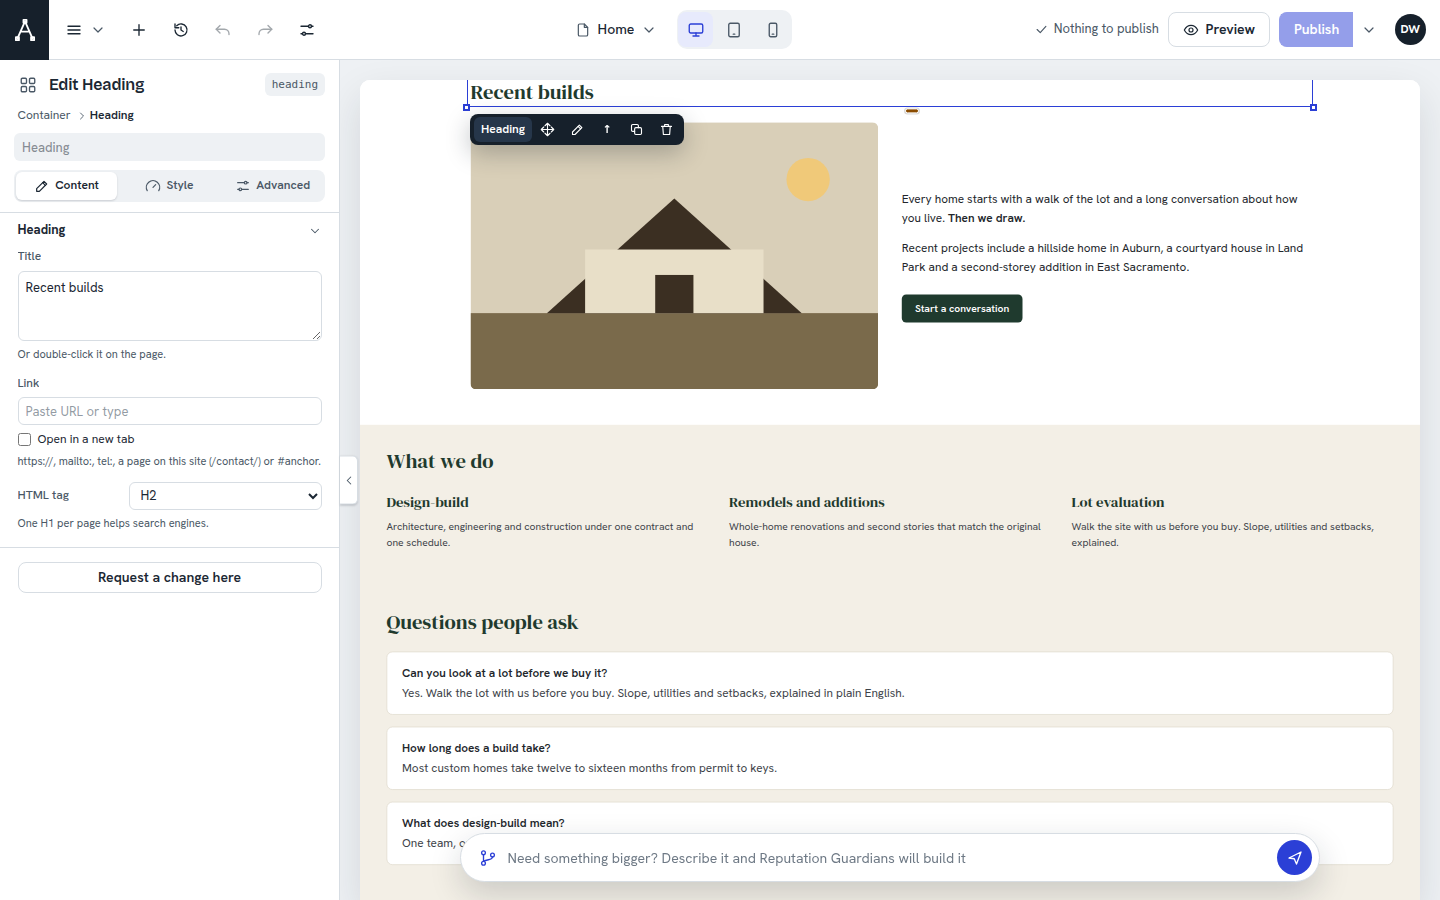
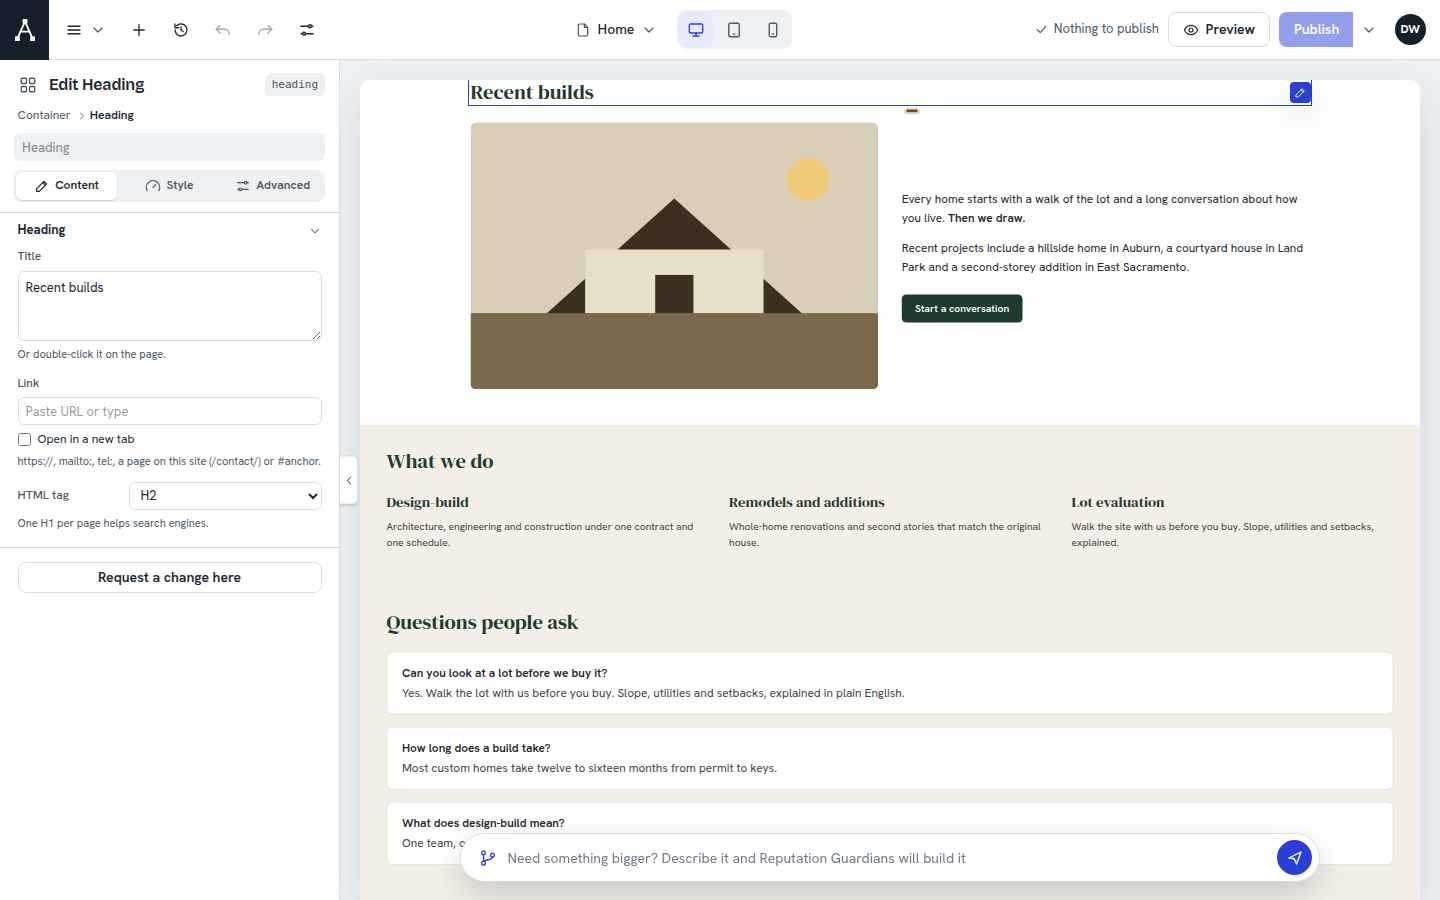
Canvas handles in Elementor's style: hover outlines and handle tabs
Hovering draws a thin outline (solid on a widget, dashed on a container) with
the type label. The selected element gets a solid accent outline and a handle
tab in place of the floating toolbar: a widget's is a square pencil outside its
top-right corner (click to edit, drag to move; hovering it reveals parent,
duplicate and delete); a container's straddles its top edge, centred, with
add / grip / delete, and a nested container's shifts right so tabs never stack.
Inline text editing, the resize handles and the spacing handles are unchanged.

Playwright: a test for the outlines, both tabs, the nested offset and selecting
at any depth; the icon picker and template tests select their element on a
settled scroll first.

Claude-Session: https://claude.ai/code/session_01HfmyeMNVbvPNK2bFV6a621

Changed region(s): [[0.3125, 0.0933, 0.5, 0.1867], [0.875, 0.0933, 0.9375, 0.1244]]

diff --git a/src/builder/ElementOverlays.tsx b/src/builder/ElementOverlays.tsx
@@ -1,14 +1,16 @@
 /**
  * Everything drawn above the iframe for builder elements, from the rect map the kit
- * reports, at 60fps from the geometry store: the dashed hover outline with its type
- * label, the "armature wire" selection with joint handles and a floating toolbar (or
- * an Elementor-style handle tab for containers), the empty-container hint, the hover
- * "+" between sections, the drag indicator, and the hidden/locked badges. Later
- * milestones add the resize and spacing handles here.
+ * reports, at 60fps from the geometry store, in Elementor's language: a thin hover
+ * outline (solid on a widget, dashed on a container) with the type label, a solid accent
+ * outline on the selected element with its handle tab — a square pencil at the top-right
+ * of a widget (drag it to move; hover it for the parent, duplicate and delete), or a tab
+ * centred on a container's top edge with add / grip / delete (offset when nested) — the
+ * empty-container hint, the hover "+" between sections, the drag indicator, the resize and
+ * spacing handles, and the hidden/locked badges.
  */
 import { clsx } from "clsx";
 import { useEffect, useState, type ReactNode } from "react";
-import { IconCopy, IconEyeOff, IconLock, IconMove, IconPencil, IconPlus, IconTrash } from "@/components/icons.tsx";
+import { IconCopy, IconEyeOff, IconGrip, IconLock, IconPencil, IconPlus, IconTrash } from "@/components/icons.tsx";
 import type { Device, Element, SiteKit } from "@shared/builder/index.ts";
 import type { ElementRect, Rect, RichTextCommand, RichTextState } from "@shared/visualProtocol.ts";
 import { useGeometry, type GeometryStore } from "@/visual/geometry.ts";
@@ -32,17 +34,16 @@ export type ElementActions = {
 
 const scaleRect = (rect: Rect, scale: number, pad = 0) => ({ left: rect.x * scale - pad, top: rect.y * scale - pad, width: rect.width * scale + pad * 2, height: rect.height * scale + pad * 2 });
 
-function Joint({ className }: { className: string }) {
-  return <span aria-hidden="true" className={clsx("absolute h-2 w-2 border-2 border-accent bg-white", className)} />;
-}
-
-function ToolButton({ label, onClick, onPointerDown, children, danger, testId }: { label: string; onClick?: () => void; onPointerDown?: (event: React.PointerEvent) => void; children: ReactNode; danger?: boolean; testId?: string }) {
+/** One square of a handle tab. */
+function TabButton({ label, onClick, onPointerDown, children, danger, testId, className }: { label: string; onClick?: () => void; onPointerDown?: (event: React.PointerEvent) => void; children: ReactNode; danger?: boolean; testId?: string; className?: string }) {
   return (
-    <button type="button" title={label} aria-label={label} data-testid={testId} onClick={onClick} onPointerDown={onPointerDown} className={clsx("inline-flex h-8 min-w-8 items-center justify-center rounded-sm px-1.5", danger ? "hover:bg-red/80" : "hover:bg-ink-2")}>
+    <button type="button" title={label} aria-label={label} data-testid={testId} onClick={onClick} onPointerDown={onPointerDown} className={clsx("inline-flex h-6 w-6 items-center justify-center text-accent-fg", danger ? "hover:bg-red" : "hover:bg-white/20", className)}>
       {children}
     </button>
   );
 }
+
+const TAB = 24;
 
 export function ElementOverlays({
   store,
@@ -117,10 +118,16 @@ export function ElementOverlays({
   const isLocked = (entry: { element: Element; ancestors: string[] } | undefined): boolean => !!entry && !isStaff && (entry.element.locked === true || entry.ancestors.some((id) => findElement(state, id, slug)?.element.locked));
   const hiddenHere = (element: Element | undefined): boolean => element?.advanced.hidden?.[device] === true;
 
-  const toolbarPosition = (rect: ElementRect) => {
-    const top = rect.rect.y * scale - 44;
-    const below = top < 4;
-    return { left: Math.max(4, Math.min(rect.rect.x * scale, Math.max(4, (store.get().viewport.width || 0) * scale - 300))), top: below ? (rect.rect.y + rect.rect.height) * scale + 10 : top };
+  /** The widget tab sits outside the top-right corner (inside it when the element touches the top). */
+  const widgetTabPosition = (rect: ElementRect) => {
+    const top = rect.rect.y * scale - TAB - 1;
+    return { right: Math.max(0, (store.get().viewport.width || 0) * scale - (rect.rect.x + rect.rect.width) * scale - 1), top: top < 2 ? rect.rect.y * scale + 2 : top };
+  };
+  /** A container's tab straddles its top edge, centred; nested containers shift right so tabs never stack. */
+  const containerTabPosition = (rect: ElementRect, depth: number, buttons: number) => {
+    const width = buttons * TAB;
+    const top = rect.rect.y * scale - TAB / 2;
+    return { left: Math.max(2, (rect.rect.x + rect.rect.width / 2) * scale - width / 2 + depth * (TAB + 8)), top: top < 2 ? rect.rect.y * scale + 2 : top };
   };
 
   return (
@@ -136,8 +143,13 @@ export function ElementOverlays({
           ))}
 
       {hover && (
-        <div className="absolute rounded-[2px] outline-dashed outline-1 outline-accent/70" style={scaleRect(hover.rect, scale, 1)} data-testid={`hover-${hover.id}`}>
-          <span className="absolute -top-[20px] left-0 flex h-5 max-w-64 items-center gap-1 truncate bg-accent/85 px-1.5 text-[11px] font-semibold text-accent-fg">
+        <div
+          className={clsx("absolute outline-1 outline-accent/70", isContainerType(hover.type) || hover.type === "site-section" ? "outline-dashed" : "outline")}
+          style={scaleRect(hover.rect, scale, 1)}
+          data-testid={`hover-${hover.id}`}
+          data-kind={isContainerType(hover.type) || hover.type === "site-section" ? "container" : "widget"}
+        >
+          <span className={clsx("absolute left-0 flex h-5 max-w-64 items-center gap-1 truncate bg-accent/85 px-1.5 text-[11px] font-semibold text-accent-fg", hover.rect.y * scale < 22 ? "top-0" : "-top-[20px]")}>
             {label(hoverEntry?.element, hover)}
             {isLocked(hoverEntry) && <IconLock size={11} />}
           </span>
@@ -145,11 +157,7 @@ export function ElementOverlays({
       )}
 
       {selected && (
-        <div data-testid="element-selection" data-element-id={selected.id} className={clsx("absolute outline outline-[1.5px] outline-accent", editing && "outline-dashed")} style={scaleRect(selected.rect, scale, 2)}>
-          <Joint className="-left-[5px] -top-[5px]" />
-          <Joint className="-right-[5px] -top-[5px]" />
-          <Joint className="-bottom-[5px] -left-[5px]" />
-          <Joint className="-bottom-[5px] -right-[5px]" />
+        <div data-testid="element-selection" data-element-id={selected.id} data-kind={isContainerType(selected.type) || selected.type === "site-section" ? "container" : "widget"} className={clsx("absolute outline outline-[1.5px] outline-accent", editing && "outline-dashed")} style={scaleRect(selected.rect, scale, 1)}>
           {selected.empty && isContainerType(selected.type) && canEdit && !editing && (
             <div className="pointer-events-auto absolute inset-0 flex items-center justify-center">
               <button type="button" onClick={() => actions.onAddInside(selected.id)} className="inline-flex h-9 items-center gap-2 rounded-control border border-dashed border-accent bg-white/90 px-3 text-[12px] font-semibold text-accent hover:bg-white" data-testid="empty-container-add">
@@ -160,36 +168,70 @@ export function ElementOverlays({
         </div>
       )}
 
-      {selected && canEdit && !editing && !drag && !isLocked(selectedEntry) && (
+      {selected && canEdit && !editing && !drag && !isLocked(selectedEntry) && (isContainerType(selected.type) || selected.type === "site-section") && (
         <div
           role="toolbar"
           aria-label={`${label(selectedEntry?.element, selected)} tools`}
           data-testid="element-toolbar"
-          className="toast-in pointer-events-auto absolute flex h-9 items-center gap-0.5 rounded-[8px] bg-ink px-1 text-white shadow-dark"
-          style={toolbarPosition(selected)}
+          data-kind="container"
+          className="group pointer-events-auto absolute flex items-center overflow-hidden rounded-[4px] bg-accent shadow-pop"
+          style={containerTabPosition(selected, selectedEntry?.ancestors.length ?? 0, isContainerType(selected.type) ? 3 : 2)}
         >
-          <span className="flex h-7 items-center gap-1.5 rounded-sm bg-ink-2 px-2 text-[12px] font-semibold">
-            <span className="max-w-40 truncate">{label(selectedEntry?.element, selected)}</span>
+          {isContainerType(selected.type) && (
+            <TabButton label="Add an element inside" onClick={() => actions.onAddInside(selected.id)} testId="element-add">
+              <IconPlus size={14} />
+            </TabButton>
+          )}
+          <TabButton label={`${label(selectedEntry?.element, selected)}: drag to move`} onPointerDown={(event) => actions.onBeginMove(event, selected.id)} testId="element-move" className="cursor-grab active:cursor-grabbing">
+            <IconGrip size={14} />
+          </TabButton>
+          <TabButton label="Delete" onClick={() => actions.onDelete(selected.id)} danger testId="element-delete">
+            <IconTrash size={13} />
+          </TabButton>
+          <span className="hidden items-center border-l border-white/30 group-hover:flex">
+            {selectedEntry && selectedEntry.parentId && (
+              <TabButton label="Select the parent" onClick={() => actions.onSelectParent(selected.id)} testId="element-parent">
+                <span className="text-[11px] font-bold">↑</span>
+              </TabButton>
+            )}
+            <TabButton label="Duplicate" onClick={() => actions.onDuplicate(selected.id)} testId="element-duplicate">
+              <IconCopy size={13} />
+            </TabButton>
           </span>
-          <ToolButton label="Move (drag)" onPointerDown={(event) => actions.onBeginMove(event, selected.id)} testId="element-move">
-            <IconMove size={15} />
-          </ToolButton>
-          {(selected.type === "heading" || selected.type === "text" || selected.type === "button") && (
-            <ToolButton label="Edit text on the page" onClick={() => actions.onEdit(selected.id)} testId="element-edit">
-              <IconPencil size={15} />
-            </ToolButton>
-          )}
-          {selectedEntry && selectedEntry.parentId && (
-            <ToolButton label="Select the parent" onClick={() => actions.onSelectParent(selected.id)}>
-              <span className="text-[11px] font-bold">↑</span>
-            </ToolButton>
-          )}
-          <ToolButton label="Duplicate" onClick={() => actions.onDuplicate(selected.id)} testId="element-duplicate">
-            <IconCopy size={15} />
-          </ToolButton>
-          <ToolButton label="Delete" onClick={() => actions.onDelete(selected.id)} danger testId="element-delete">
-            <IconTrash size={15} />
-          </ToolButton>
+        </div>
+      )}
+
+      {selected && canEdit && !editing && !drag && !isLocked(selectedEntry) && !(isContainerType(selected.type) || selected.type === "site-section") && (
+        <div
+          role="toolbar"
+          aria-label={`${label(selectedEntry?.element, selected)} tools`}
+          data-testid="element-toolbar"
+          data-kind="widget"
+          className="group pointer-events-auto absolute flex items-center overflow-hidden rounded-[4px] bg-accent shadow-pop"
+          style={widgetTabPosition(selected)}
+        >
+          <span className="hidden items-center border-r border-white/30 group-hover:flex">
+            {selectedEntry && selectedEntry.parentId && (
+              <TabButton label="Select the parent" onClick={() => actions.onSelectParent(selected.id)} testId="element-parent">
+                <span className="text-[11px] font-bold">↑</span>
+              </TabButton>
+            )}
+            <TabButton label="Duplicate" onClick={() => actions.onDuplicate(selected.id)} testId="element-duplicate">
+              <IconCopy size={13} />
+            </TabButton>
+            <TabButton label="Delete" onClick={() => actions.onDelete(selected.id)} danger testId="element-delete">
+              <IconTrash size={13} />
+            </TabButton>
+          </span>
+          <TabButton
+            label={`${label(selectedEntry?.element, selected)}: edit, or drag to move`}
+            onPointerDown={(event) => actions.onBeginMove(event, selected.id)}
+            onClick={() => (selected.type === "heading" || selected.type === "text" || selected.type === "button" ? actions.onEdit(selected.id) : actions.onSelect(selected.id))}
+            testId="element-move"
+            className="cursor-grab active:cursor-grabbing"
+          >
+            <IconPencil size={13} />
+          </TabButton>
         </div>
       )}
 

diff --git a/tests/e2e/builder.spec.ts b/tests/e2e/builder.spec.ts
@@ -537,8 +537,10 @@ test.describe("the inspector", () => {
   test("the icon picker loads the icon set on demand and saves the icon into the button", async ({ page }) => {
     await openBuilder(page);
     const frame = siteFrame(page);
-    await frame.locator(".ae-btnbuild").scrollIntoViewIfNeeded();
+    await frame.locator(".ae-btnbuild").evaluate((node) => node.scrollIntoView({ block: "start" }));
+    await page.waitForTimeout(150);
     await frame.locator(".ae-btnbuild").click({ position: { x: 4, y: 4 } });
+    await expect(page.getByTestId("element-selection")).toHaveAttribute("data-element-id", "btnbuild");
     await page.getByTestId("group-icon").getByRole("button", { name: "Icon" }).click();
     await page.getByRole("button", { name: "Choose an icon" }).click();
     await page.getByLabel("Search icons").fill("arrow right");
@@ -560,6 +562,64 @@ test.describe("the inspector", () => {
     await expect(frame.locator("link[data-armature-fonts]")).toHaveAttribute("href", /family=Fraunces/);
     await openGlobals(page);
     await expect(page.getByTestId("custom-fonts")).toContainText("Fraunces");
+  });
+});
+
+// --- the canvas handles (Elementor's outlines and tabs) ------------------------------------------
+
+test.describe("the canvas handles", () => {
+  test("a thin outline on hover (dashed on containers), a pencil tab on a widget, a centred tab on a container", async ({ page }) => {
+    await openBuilder(page);
+    const frame = siteFrame(page);
+    // Hover: solid on a widget, dashed on a container, with the type label.
+    await frame.locator(".ae-hdbuilds").hover();
+    await expect(page.getByTestId("hover-hdbuilds")).toHaveAttribute("data-kind", "widget");
+    await expect(page.getByTestId("hover-hdbuilds")).toContainText("Heading");
+    await frame.locator(".ae-secbuild").hover({ position: { x: 5, y: 5 } });
+    await expect(page.getByTestId("hover-secbuild")).toHaveAttribute("data-kind", "container");
+    // A selected widget: solid outline and a square pencil tab outside its top-right corner.
+    await frame.locator(".ae-hdbuilds").click();
+    const selection = page.getByTestId("element-selection");
+    await expect(selection).toHaveAttribute("data-kind", "widget");
+    const tab = page.getByTestId("element-toolbar");
+    await expect(tab).toHaveAttribute("data-kind", "widget");
+    const selectionBox = (await selection.boundingBox())!;
+    const tabBox = (await tab.boundingBox())!;
+    expect(Math.abs(tabBox.x + tabBox.width - (selectionBox.x + selectionBox.width))).toBeLessThan(3);
+    expect(tabBox.y + tabBox.height).toBeLessThanOrEqual(selectionBox.y + 1);
+    expect(tabBox.width).toBeLessThan(40); // just the pencil until it is hovered
+    // Hovering the tab reveals parent, duplicate and delete.
+    await page.getByTestId("element-move").hover();
+    await expect(page.getByTestId("element-duplicate")).toBeVisible();
+    await page.getByTestId("element-duplicate").click();
+    await expect(frame.locator(".ae-heading")).toHaveCount(2);
+    await page.getByRole("button", { name: "Undo" }).click();
+    await expect(frame.locator(".ae-heading")).toHaveCount(1);
+    // A container: the tab straddles the top edge, centred, with add / grip / delete.
+    await selectByCorner(frame, ".ae-secbuild");
+    await expect(selection).toHaveAttribute("data-element-id", "secbuild");
+    await expect(tab).toHaveAttribute("data-kind", "container");
+    const sectionBox = (await selection.boundingBox())!;
+    const containerTab = (await tab.boundingBox())!;
+    expect(Math.abs(containerTab.x + containerTab.width / 2 - (sectionBox.x + sectionBox.width / 2))).toBeLessThan(6);
+    // Straddling the top edge, or just inside it when the container touches the top of the frame.
+    expect(containerTab.y).toBeLessThan(sectionBox.y + 4);
+    expect(containerTab.y + containerTab.height).toBeGreaterThan(sectionBox.y);
+    await expect(tab.getByTestId("element-move")).toBeVisible();
+    await expect(tab.getByTestId("element-delete")).toBeVisible();
+    // A nested container's tab is shifted right so it never sits on its parent's.
+    await frame.locator(".ae-txtbuild").click();
+    await page.keyboard.press("ArrowLeft"); // its column
+    await expect(selection).toHaveAttribute("data-element-id", "colrigh1");
+    const columnBox = (await selection.boundingBox())!;
+    const columnTab = (await tab.boundingBox())!;
+    expect(columnTab.x + columnTab.width / 2).toBeGreaterThan(columnBox.x + columnBox.width / 2 + 40);
+    // "+" on the tab opens Elements to add inside.
+    await tab.getByTestId("element-add").click();
+    await expect(page.getByTestId("elements-panel")).toBeVisible();
+    // Clicking anything at any depth selects exactly it.
+    await frame.locator(".ae-btnbuild .ae-btn").click();
+    await expect(selection).toHaveAttribute("data-element-id", "btnbuild");
   });
 });
 

diff --git a/CHANGELOG.md b/CHANGELOG.md
@@ -7,6 +7,7 @@ All notable changes to Armature are recorded here. The format follows
 
 ### Changed
 
+- **The canvas handles now look like Elementor's.** Hovering draws a thin outline (solid on a widget, dashed on a container) with the type label. The selected element gets a solid accent outline and a handle tab instead of the floating dark toolbar: a widget's is a square pencil outside its top-right corner (click to edit, drag to move; hovering it reveals parent, duplicate and delete), a container's straddles its top edge, centred, with add / grip / delete (and parent / duplicate on hover); a nested container's tab shifts right so it never sits on its parent's. Inline text editing, the resize handles and the spacing handles are unchanged. A Playwright test covers the outlines, both tabs, the nested offset and selecting at any depth.
 - **The panel controls now match Elementor's rows and popovers (KIT_VERSION 2.2.0).** Every control is one row: the label on the left with the device icon right after it, the control on the right; wide controls (a textarea, spacing boxes, a picture) stack under their label. Typography, Text shadow, Text stroke, Box shadow and Border are one row each with a pencil that opens a popover of their fields (live, closing on a click outside or Esc without dropping the selection) and a globe where a global applies (site text styles on Typography, global colours on every colour). A colour is now a swatch button that opens the picker; a linked colour shows a globe on the swatch. Margin and Padding show four labelled boxes with the unit menu and the link toggle on the label line; alignment is an icon group; Width, HTML tag and the new Blend mode are dropdowns. The Text Editor's Content tab is a full rich-text editor in the panel with Visual and Code tabs (paragraph or heading, bold, italic, underline, strike, lists, link, alignment, colour, clear); Code shows the document as sanitized HTML and converts what is typed back, dropping unsupported tags with a notice; the panel and the canvas follow each other live. A container's Layout tab reads Content width (Boxed / Full), Width, Min height, Direction (icons), Justify, Align, Gap, Wrap, a new Structure group that changes the section's columns and moves what is inside into them, then Overflow and HTML tag. New style fields: **text stroke** (`-webkit-text-stroke`) and **blend mode** (`mix-blend-mode`); new Advanced fields for elements inside a grid: **column span** and **row span**. The kit's rich-text serializer keeps a site colour's reference (`data-ae-color`) and a numbered list's start. Tests: structure changes, the HTML round trip, the new CSS; Playwright: the Typography popover with device switching inside it, Esc and outside clicks, the margin link toggle and unit, the Text Editor panel and canvas in sync (Visual, toolbar, Code with dropped tags, and edits from the page), text stroke, blend mode and the Structure group with undo.
 - **The builder now works like Elementor: one switching panel on the left, the website full-bleed to the right.** The right-hand inspector column, the left icon rail and the Navigator, Pages, Media and Site tabs are gone. A single ~340px panel on the left has two modes — Elements (a Widgets/Globals tab pair, a search box and the widget tiles in a two-column grid) and Edit (the selected element's Content/Style/Advanced, headed "Edit Heading", "Edit Container"… with a grid icon back to Elements; a container's first tab is Layout). Clicking anything on the page opens it in the panel; selecting another element swaps the panel instantly; Esc, the grid icon or clicking empty canvas returns to Elements. A collapse tab on the panel's right edge hides it so the canvas fills the window, remembered per user. Global colours, fonts and typography presets moved to the Globals tab (visible to agency staff and to clients at the style or builder level). The media library is now a modal opened from an image's "Media library" button (reuse, upload and alt text). The top bar follows Elementor's arrangement: a menu (Exit to dashboard, New page, Keyboard shortcuts), "+", History, undo/redo and Page settings on the left; the page name with a chevron to Page settings and the device toggle in the centre; draft status, Preview and a Publish button with a dropdown (Save draft, Save as template, View page) on the right. Page settings and History open in the left panel. A registered (hand-coded) site section selects as a whole and shows a note in its Content tab — clients "Ask your agency to make this section fully editable", staff "convert it to builder elements in the site's repo" — while its text and pictures stay editable on the page. Stage 1 (content-only) sites keep their existing layout. The full Playwright suite was updated for the new layout, with new tests for panel swapping across element types, Esc/grid returning to Elements, and collapse/restore.
 

diff --git a/docs/BUILDER_SPEC.md b/docs/BUILDER_SPEC.md
@@ -237,9 +237,13 @@ right edge of the window (Stage 1 / content-only sites keep the older split of
   in the PARENT above the iframe from bridge-reported rects.
 - **Media:** no tab; the image control's "Media library" button opens the library as a modal
   (reuse, upload, alt text).
-- **Canvas interactions:** hover outline and type label; container handle tab (add, move,
-  duplicate, delete); widget handle (drag, edit, duplicate, delete); "armature wire"
-  selection with a floating dark toolbar; up-arrow / Alt-click selects the parent.
+- **Canvas interactions:** a thin hover outline with the type label (solid on a widget,
+  dashed on a container); the selected element gets a solid accent outline and its handle
+  tab — a widget's is a square pencil outside its top-right corner (click edits, drag moves;
+  hovering it reveals parent, duplicate and delete), a container's is centred on its top
+  edge with add / grip / delete (nested containers' tabs shift right so they never stack).
+  Clicking anything at any depth selects exactly it; up-arrow / Alt-click selects the
+  parent. Inline text editing, the resize handles and the spacing handles stay.
 - **Drag and drop.** **Decision:** pointer events, not HTML5 drag and drop, because the
   iframe never hands the parent its drag events. During a drag the parent lays a
   transparent capture layer over the iframe, hit-tests the pointer against the rect map
